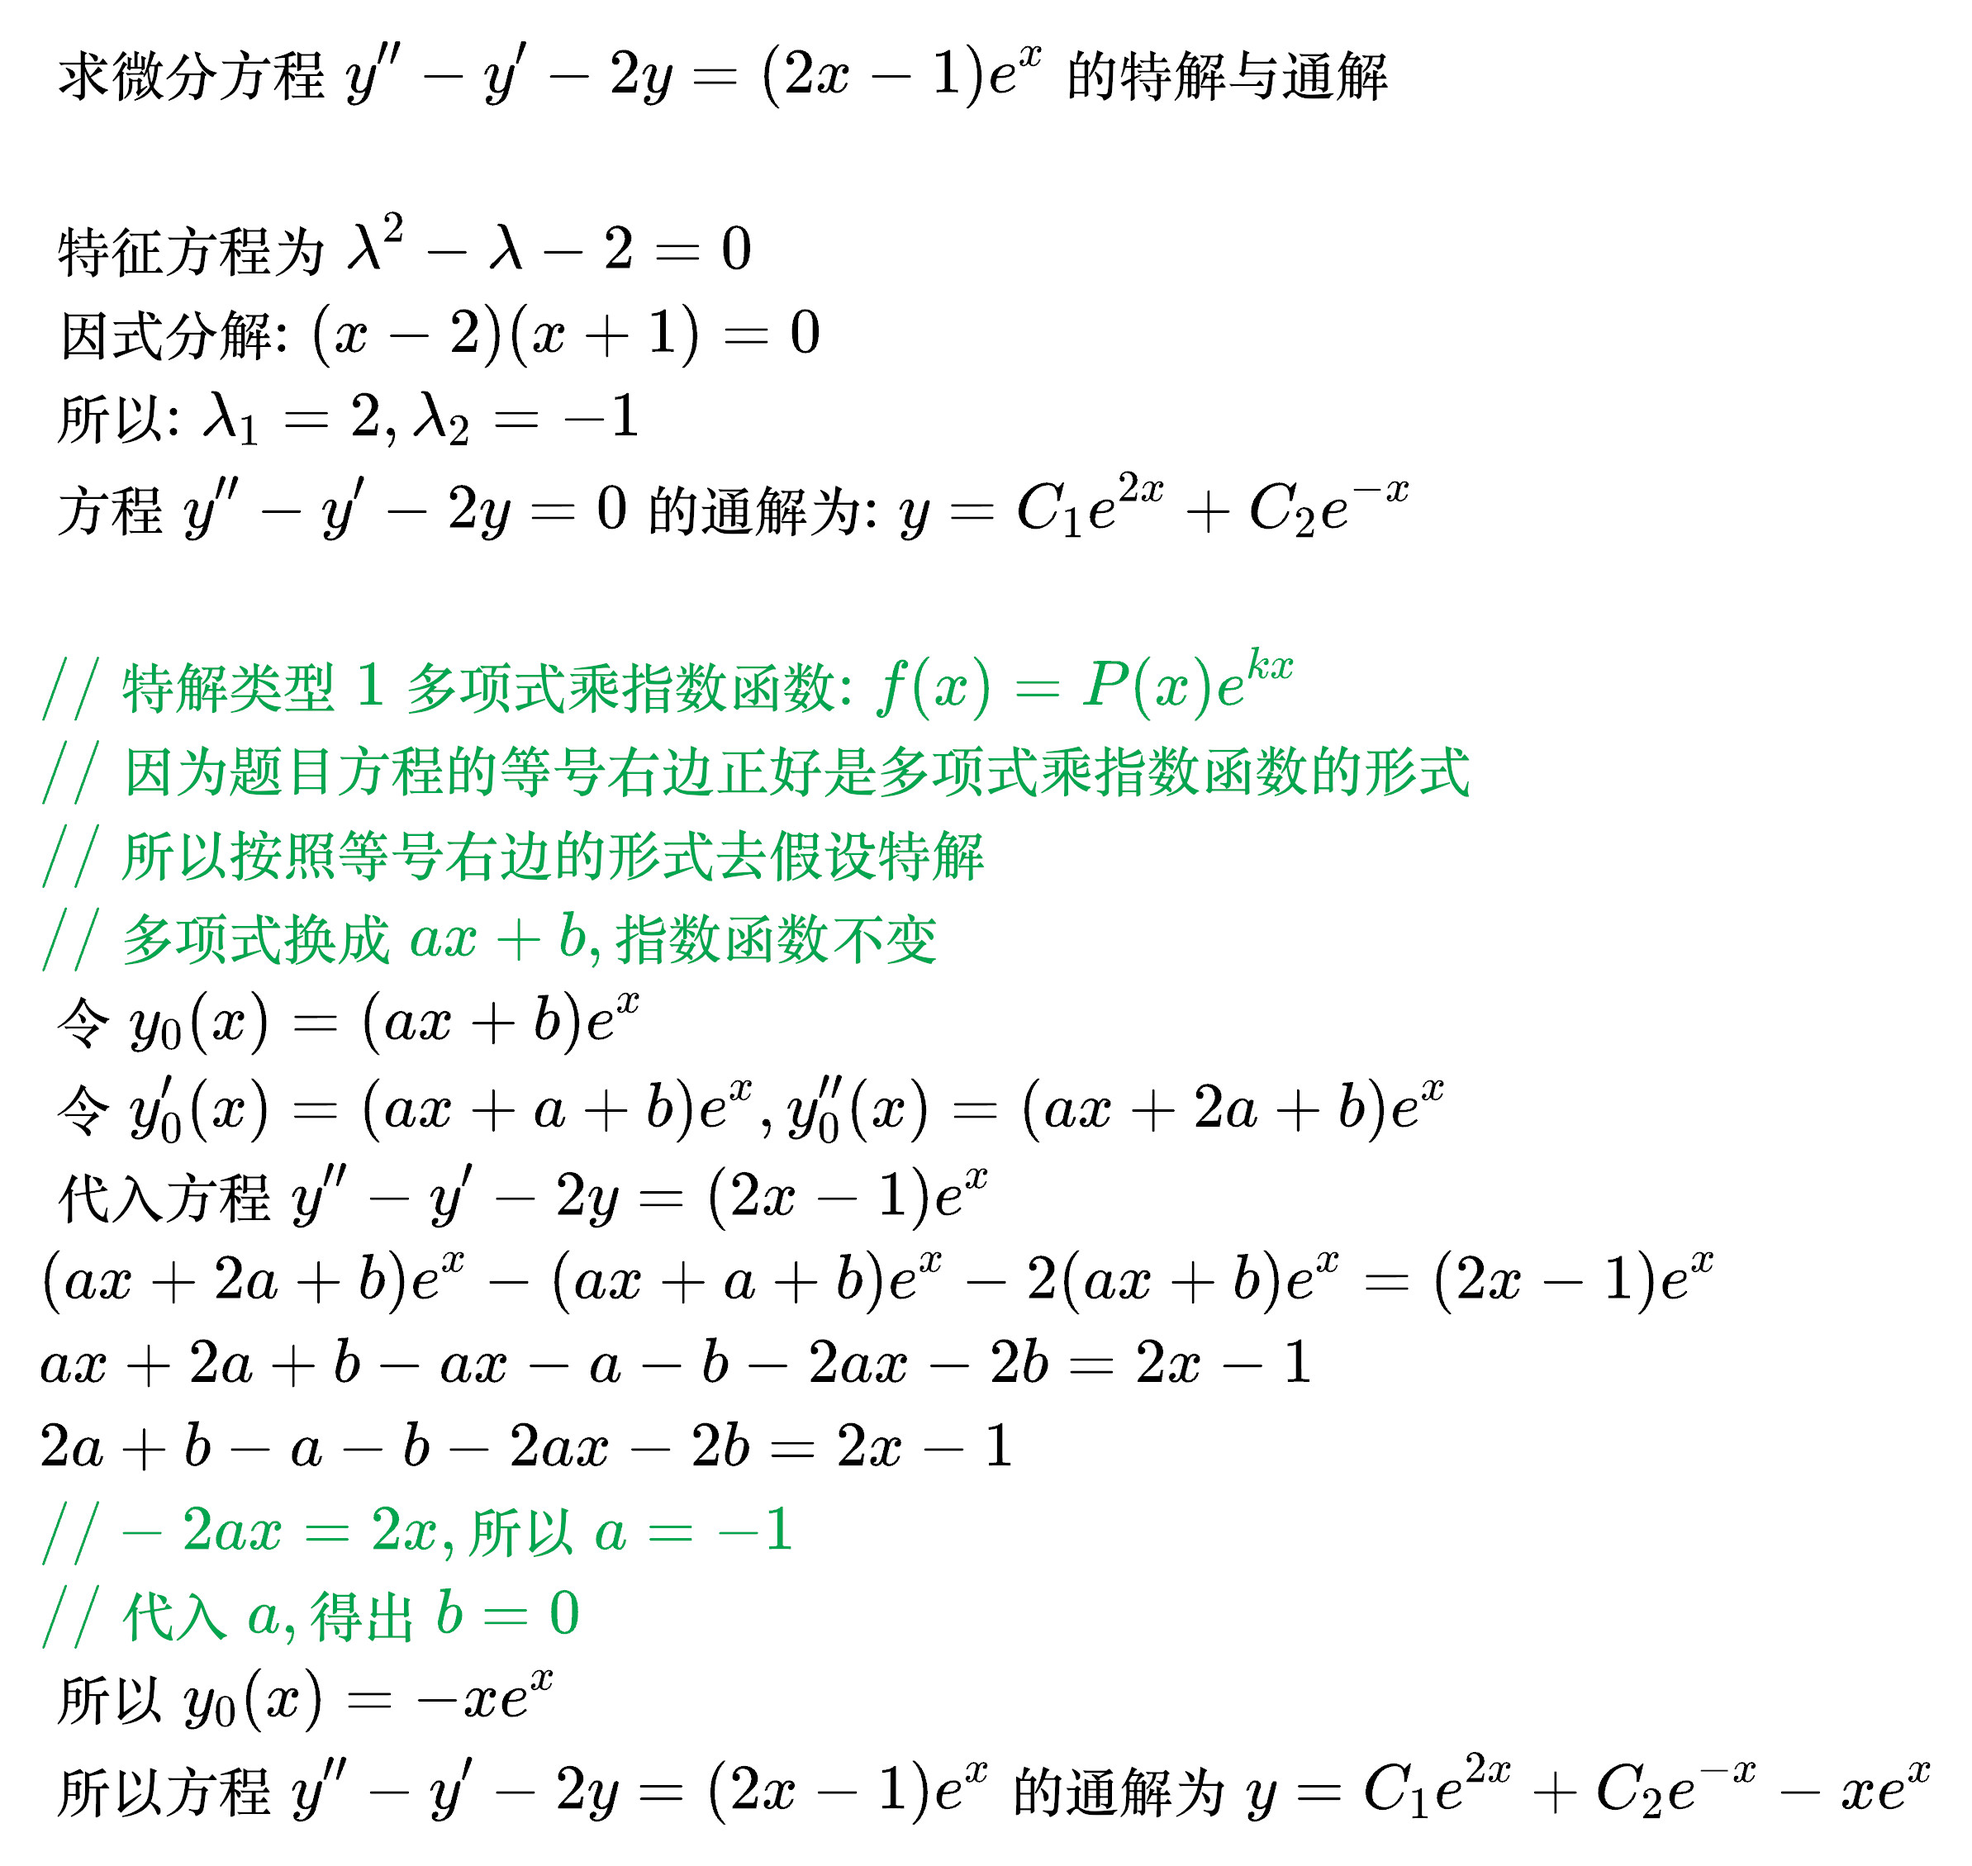
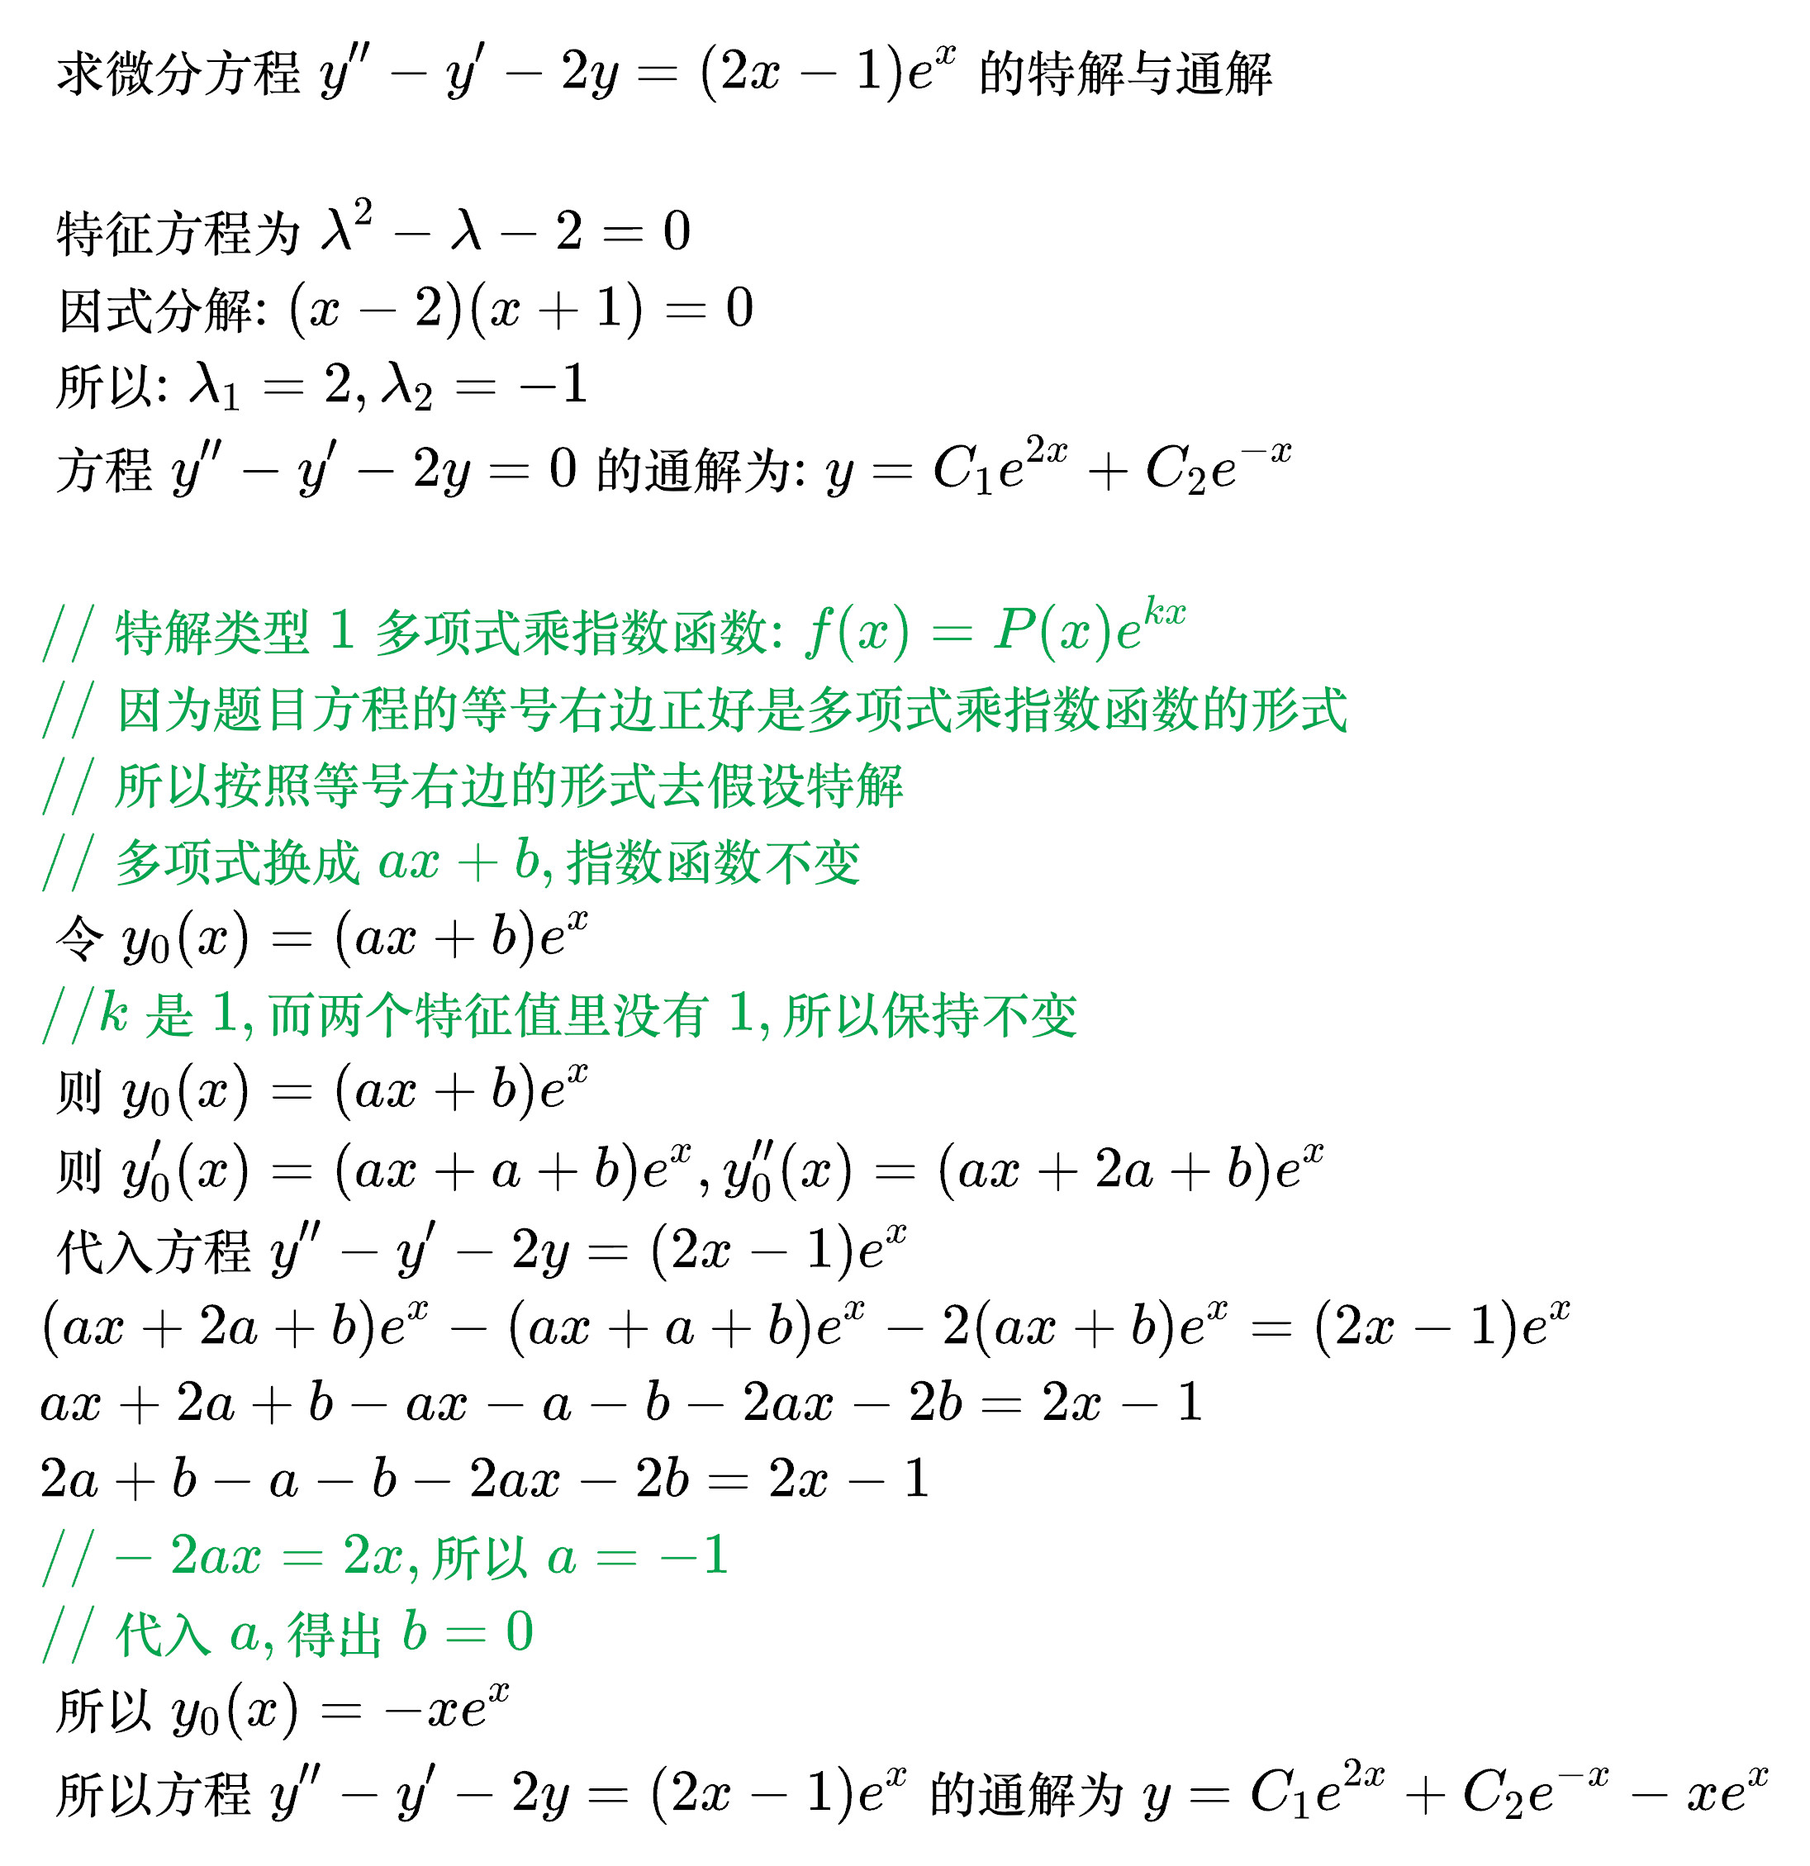
1

diff --git a/base/computer_organization/src/cpu/cu.md b/base/computer_organization/src/cpu/cu.md
@@ -12,7 +12,7 @@
 - CPU 内的控制信号: CPU 内的数据传输，或控制 ALU 执行不同的运算等
 - 送至系统总线的信号: 如控制主存读/写，I/O 操作，中断响应等
 
-## CPU 内部采用总线方式的控制信号与数据通路
+## CPU 内部采用单总线方式的数据通路
 
 - bus: CPU 内部的总线, 用来在 CPU 内部传输数据
 - Y 和 Z 寄存器: 用于暂时存储参与运算的数据和中间结果
@@ -21,7 +21,13 @@
 
 ![](../img/cu1.jpg)
 
-取指周期:
+寄存器之间的数据传送, 以 PC 中的数据送入 MAR 为例:
+
+1. PC 中的数据送入 MAR
+   - PC<sub>out</sub> 和 MAR<sub>in</sub> 有效
+   - (PC) -> bus -> MAR
+
+主存与 CPU 的数据传送, 以 CPU 从主存中取指令为例:
 
 1. PC 中的数据送入 MAR
    - PC<sub>out</sub> 和 MAR<sub>in</sub> 有效
@@ -33,18 +39,26 @@
 4. 把指令从 MDR 送入 IR:
    - MDR<sub>out</sub> 和 IR<sub>in</sub> 有效
    - (MDR) -> bus -> IR
-5. 把操作码送入 CU 译码: OP(IR) -> CU
-6. PC 自增: (PC) + 1 -> PC
 
-间指周期:
+执行算术/逻辑运算, 以加法为例:
 
 1. 将指令的地址码送入 MAR
    - IR<sub>out</sub> 和 MAR<sub>in</sub> 有效
    - Ad(IR) -> bus -> MAR
+   - 注意: 取指后 MDR 中保存的也是指令, 所以也可以从 MDR 中把指令送到 MDR: (MDR) -> bus -> MAR
 2. 向主存发送读命令, 启动主存执行读操作: 1 -> R
-3. 把有效地址从主存送入 MDR
+3. 把加法运算的操作数从主存送入 MDR
    - MDR<sub>in</sub> 有效
    - M(MAR) -> 数据总线 -> MDR
-4. 用有效地址覆盖 IR 中的地址码
-   - IR<sub>in</sub> 有效
-   - MDR -> bus -> Ad(IR)
+4. 把操作数送入 Y 中暂存:
+   - Y<sub>in</sub> 和 MDR<sub>out</sub> 有效
+   - (MDR) -> bus -> Y
+5. ACC 中存放的是被加数, 把 ACC 和 Y 相加, 结果暂存到 Z 中:
+   - ALU<sub>in</sub> 和 ACC<sub>out</sub> 有效
+   - CU 向 ALU 发送加法命令
+   - (ACC) + (Y) -> Z
+6. 把 Z 中的结果放回 ACC:
+   - ACC<sub>in</sub> 和 Z<sub>out</sub> 有效
+   - (Z) -> bus -> ACC
+
+由于单总线方式在同一时刻只能进行一次数据传输操作, 而 ALU 同时需要两个输入, 所以要先把一个操作数临时存放到寄存器 Y 中。如果采用多总线方式, 则可以通过另一条内部总线直接把数据送给 ALU。

diff --git a/base/math/src/further_mathematics/differential_equation3.md b/base/math/src/further_mathematics/differential_equation3.md
@@ -120,7 +120,9 @@ y'' + p(x)y' + q(x)y = f_2(x) \\
 & {\color{Green} // 所以按照等号右边的形式去假设特解} \\
 & {\color{Green} // 多项式换成ax + b, 指数函数不变} \\
 & 令 y_0(x) = (ax + b)e^x \\
-& 令 y_0 '(x) = (ax + a + b)e^x, y_0 ''(x) = (ax + 2a + b)e^x \\
+& {\color{Green} // k是1, 而两个特征值里没有1, 所以保持不变} \\
+& 则 y_0(x) = (ax + b)e^x \\
+& 则 y_0 '(x) = (ax + a + b)e^x, y_0 ''(x) = (ax + 2a + b)e^x \\
 & 代入方程 y'' - y' - 2y = (2x - 1)e^x \\
 & (ax + 2a + b)e^x - (ax + a + b)e^x - 2(ax + b)e^x = (2x - 1)e^x \\
 & ax + 2a + b - ax - a - b - 2ax - 2b = 2x - 1 \\
@@ -133,3 +135,35 @@ y'' + p(x)y' + q(x)y = f_2(x) \\
 -->
 
 ![](../img/de3_6.jpg)
+
+例题 2
+
+<!--
+\begin{align}
+& 求微分方程 y'' + y' - 2y = (2x + 3)e^x 的特解与通解 \\
+\\
+& 特征方程为 \lambda ^2 + \lambda - 2 = 0 \\
+& 因式分解: (x - 1)(x + 2) = 0 \\
+& 所以: \lambda _1 = 1, \lambda _2 = -2 \\
+& 方程 y'' + y' - 2y = 0 的通解为: y = C_1 e^{x} + C_2 e^{-2x} \\
+\\
+& {\color{Green} // 特解类型1 多项式乘指数函数: f(x) = P(x)e^{kx}} \\
+& {\color{Green} // 因为题目方程的等号右边正好是多项式乘指数函数的形式} \\
+& {\color{Green} // 所以按照等号右边的形式去假设特解} \\
+& {\color{Green} // 多项式换成ax + b, 指数函数不变} \\
+& 令 y_0(x) = (ax + b)e^x \\
+& {\color{Green} // k是1, 而两个特征值里只有 \lambda _1 是1, 所以前面乘一个x} \\
+& 则 y_0(x) = x(ax + b)e^x = (ax^2 + bx)e^x \\
+& 则 y_0 '(x) = (ax^2 + 2ax + bx + b)e^x, y_0 ''(x) = (ax^2 + 4ax + bx + 2a + 2b)e^x \\
+& 代入方程 y'' + y' - 2y = (2x + 3)e^x \\
+& (ax^2 + 4ax + bx + 2a + 2b)e^x + (ax^2 + 2ax + bx + b)e^x - 2(ax^2 + bx)e^x = (2x + 3)e^x \\
+& ax^2 + 4ax + bx + 2a + 2b + ax^2 + 2ax + bx + b - 2ax^2 - 2bx = 2x + 3 \\
+& 6ax + 2a + 3b = 2x + 3 \\
+& {\color{Green} // 6ax = 2x, 所以 a = \frac{1}{3}} \\
+& {\color{Green} // 代入a, 得出 b = \frac{7}{9}} \\
+& 所以 y_0(x) = (\frac{x^2}{3} + \frac{7}{9}x)e^x \\
+& 所以方程 y'' + y' - 2y = (2x + 3)e^x 的通解为 y = C_1 e^{x} + C_2 e^{-2x} + (\frac{x^2}{3} + \frac{7}{9}x)e^x \\
+\end{align}
+-->
+
+![](../img/de3_7.jpg)

diff --git a/programming/Java/md/java/src/java/path.md b/programming/Java/md/java/src/java/path.md
@@ -213,7 +213,7 @@ Files.deleteIfExists(path);
 ```java
 Path path = Paths.get("/home/demo");
 // 递归删除文件夹
-Files.walkFileTree(path, new SimpleFileVisitor<Path>() {
+Files.walkFileTree(path, new SimpleFileVisitor<>() {
     @Override
     public FileVisitResult visitFile(Path file, BasicFileAttributes attrs) throws IOException {
         Files.delete(file);
